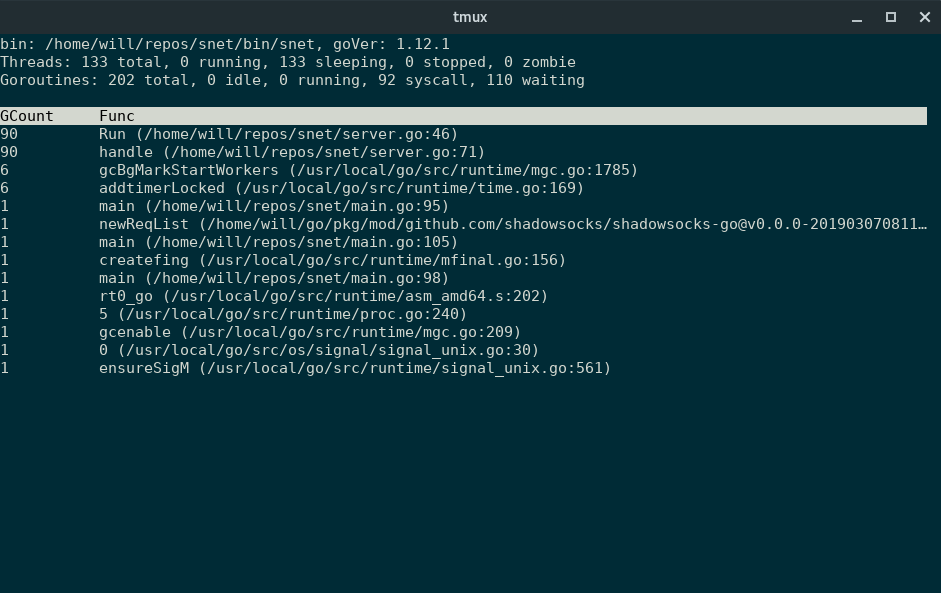
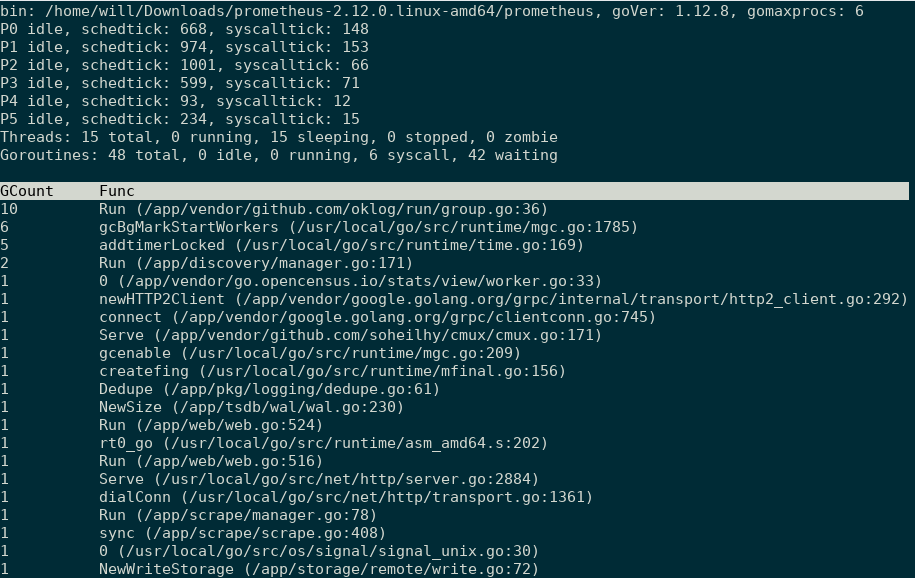
Update README

Changed region(s): [[0.0, 0.0, 1.0, 0.9965]]

diff --git a/README.md b/README.md
@@ -8,27 +8,36 @@ learned a lot from [delve](https://github.com/go-delve/delve)
 
 Get summary info about go process, and what every goroutine is doing:  `sudo ./gospy summary  --pid 1234`
 
-    bin: /home/will/repos/snet/bin/snet, goVer: 1.12.1
-    Threads: 133 total, 0 running, 133 sleeping, 0 stopped, 0 zombie
-    Goroutines: 242 total, 0 idle, 0 running, 112 syscall, 130 waiting
+    bin: /home/will/Downloads/prometheus-2.12.0.linux-amd64/prometheus, goVer: 1.12.8, gomaxprocs: 6
+    P0 idle, schedtick: 642, syscalltick: 81
+    P1 idle, schedtick: 959, syscalltick: 67
+    P2 idle, schedtick: 992, syscalltick: 32
+    P3 idle, schedtick: 581, syscalltick: 17
+    P4 idle, schedtick: 89, syscalltick: 8
+    P5 idle, schedtick: 231, syscalltick: 5
+    Threads: 14 total, 0 running, 14 sleeping, 0 stopped, 0 zombie
+    Goroutines: 44 total, 0 idle, 0 running, 5 syscall, 39 waiting
 
     goroutines:
 
     1 - waiting for chan receive: rt0_go (/usr/local/go/src/runtime/asm_amd64.s:202) 
     2 - waiting for force gc (idle): 5 (/usr/local/go/src/runtime/proc.go:240) 
     3 - waiting for GC sweep wait: gcenable (/usr/local/go/src/runtime/mgc.go:209) 
-    4 - waiting for timer goroutine (idle): addtimerLocked (/usr/local/go/src/runtime/time.go:169) 
-    7 - waiting for GC worker (idle): gcBgMarkStartWorkers (/usr/local/go/src/runtime/mgc.go:1785) 
-    8 - waiting for GC worker (idle): gcBgMarkStartWorkers (/usr/local/go/src/runtime/mgc.go:1785) 
-    9 - waiting for GC worker (idle): gcBgMarkStartWorkers (/usr/local/go/src/runtime/mgc.go:1785) 
-    12 - waiting for IO wait: Run (/home/will/repos/snet/server.go:46) 
-    13 - syscall: handle (/home/will/repos/snet/server.go:71) 
-    15 - waiting for semacquire: Run (/home/will/repos/snet/server.go:46) 
-    16 - syscall: handle (/home/will/repos/snet/server.go:71) 
-    18 - waiting for finalizer wait: createfing (/usr/local/go/src/runtime/mfinal.go:156) 
-    19 - waiting for sleep: newReqList (/home/will/go/pkg/mod/github.com/shadowsocks/shadowsocks-go@v0.0.0-20190307081127-ac922d10041c/shadowsocks/udprelay.go:86) 
-    20 - syscall: 0 (/usr/local/go/src/os/signal/signal_unix.go:30) 
-    27 - waiting for IO wait: main (/home/will/repos/snet/main.go:95) 
+    8 - syscall: addtimerLocked (/usr/local/go/src/runtime/time.go:169) 
+    9 - waiting for select: 0 (/app/vendor/go.opencensus.io/stats/view/worker.go:33) 
+    16 - waiting for GC worker (idle): gcBgMarkStartWorkers (/usr/local/go/src/runtime/mgc.go:1785) 
+    17 - waiting for finalizer wait: createfing (/usr/local/go/src/runtime/mfinal.go:156) 
+    19 - syscall: 0 (/usr/local/go/src/os/signal/signal_unix.go:30) 
+    22 - waiting for GC worker (idle): gcBgMarkStartWorkers (/usr/local/go/src/runtime/mgc.go:1785) 
+    23 - waiting for GC worker (idle): gcBgMarkStartWorkers (/usr/local/go/src/runtime/mgc.go:1785) 
+    38 - waiting for GC worker (idle): gcBgMarkStartWorkers (/usr/local/go/src/runtime/mgc.go:1785) 
+    49 - waiting for GC worker (idle): gcBgMarkStartWorkers (/usr/local/go/src/runtime/mgc.go:1785) 
+    50 - waiting for GC worker (idle): gcBgMarkStartWorkers (/usr/local/go/src/runtime/mgc.go:1785) 
+    74 - waiting for select: sync (/app/scrape/scrape.go:408) 
+    75 - syscall: addtimerLocked (/usr/local/go/src/runtime/time.go:169) 
+    84 - syscall: addtimerLocked (/usr/local/go/src/runtime/time.go:169) 
+    85 - waiting for select: Run (/app/vendor/github.com/oklog/run/group.go:36) 
+    ...
 
 
 A top like interface, aggregate goroutines by functions: `sudo ./gospy top --pid 1234`
